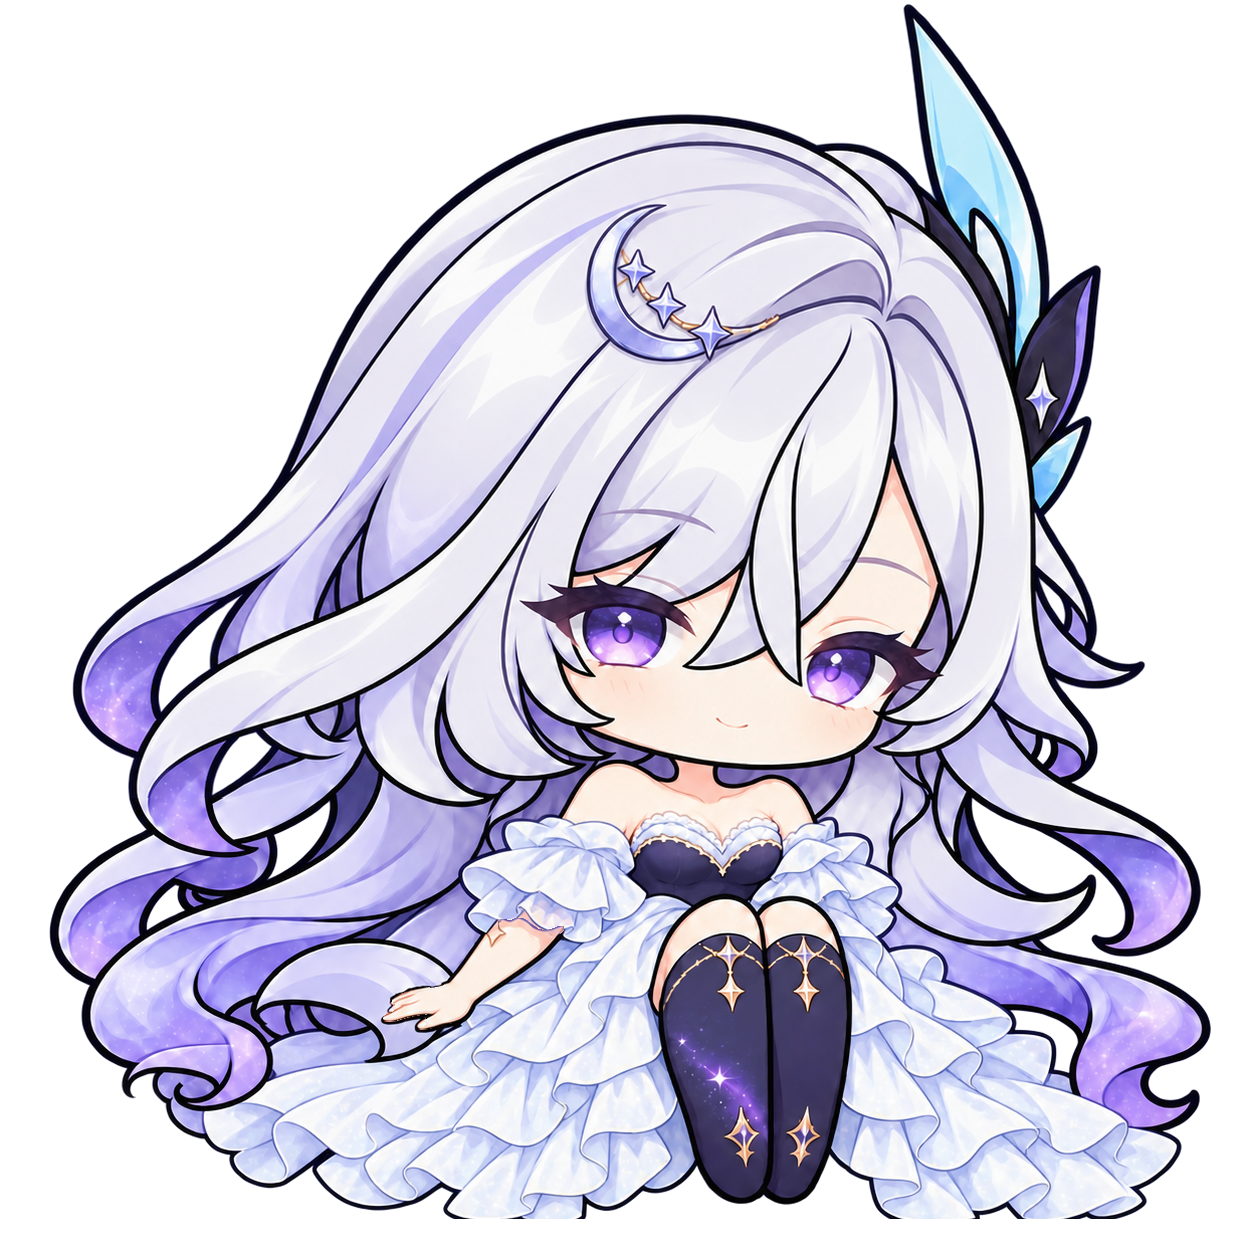
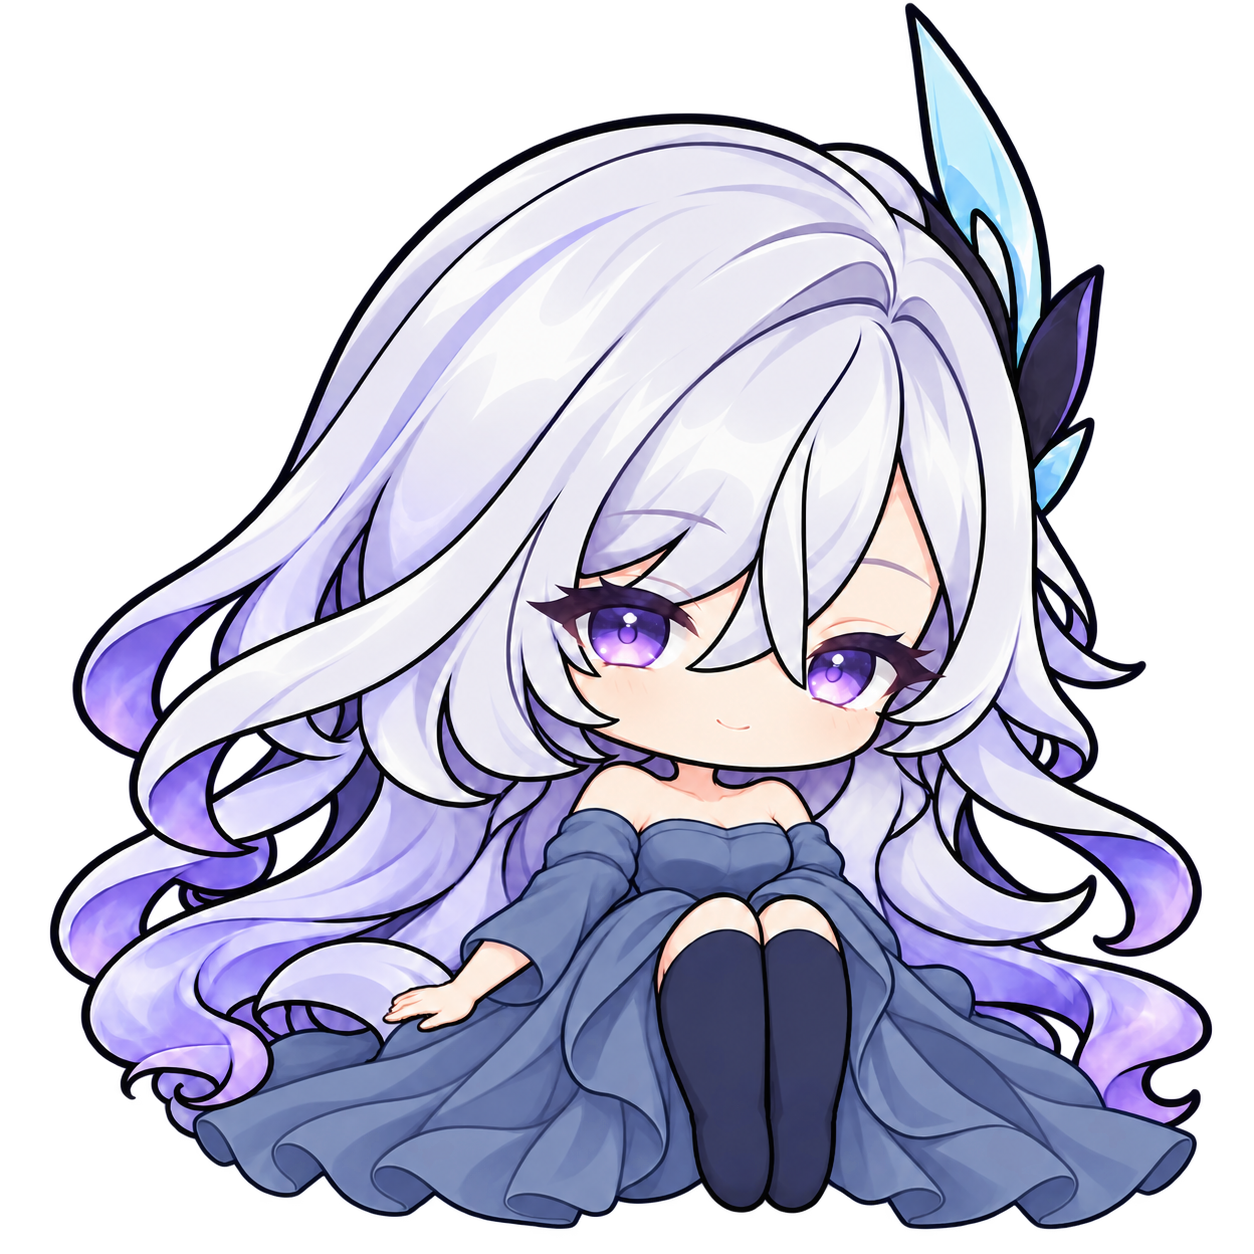
art: checkpoint partial Starsea gown rarity redraw (18 of 110)
Redraw five rarity masters and available idle frames, and add a large/80px comparison preview. Image generation quota blocked the remaining 92 sprites; record exact recovery inputs and next steps. Step 1 remains incomplete and step 2 has not started.

diff --git a/HANDOFF.md b/HANDOFF.md
@@ -1,4 +1,11 @@
 # Current Progress
+- **2026-10-12 STARSEA GOWN STEP 1 INCOMPLETE — IMAGE GENERATION QUOTA BLOCKED.** New user assignment supersedes the historical V1.5 art restriction for this isolated art task. Worktree `D:\Documents\ChatGPT\petoken-outfits-starsea-gown`, branch `codex/outfits-starsea-gown`, base `ad44b23`; Claude's checkout/branch unchanged. No code edits, step 2, merge or push.
+- Completed 18/110 requested sprite redraws: `assets/v2_5/outfits/starsea_gown/{fanxing,mingyue,haori}/idle_{1,2,3,4}.png` and `{yinhe,xinghai}/idle_{1,2,3}.png`. Added root `STARSEA_GOWN_PREVIEW.png`: five tiers in order fanxing, mingyue, haori, yinhe, xinghai, same idle_1 pose, large and 80px comparisons, no labels. Remaining 92 sprites and the five existing per-tier PREVIEW.png files retain baseline artwork. This partial mixed set is NOT a completed/accepted step 1.
+- Used built-in imagegen, one generation per sprite, original pose plus a generated tier costume reference; no external art/code reused or added dependency. Tier directions: matte gray-blue single cloth/no jewelry/no glow; pearl-silver two layers/crescent; warm ivory/champagne-gold embroidery/short cape/sun brooch; midnight-navy star patterns/platinum/long cyan-edged gauze; bright mint/rose aurora panels/large winglike stole/star crown/particles. Preserve silver-lavender hair, violet eyes, natural side feather and seated pose identity. Higher-tier master edge-clearance corrections were generated before the subsequent frames.
+- Verification: all 18 delivered sprites decode at 1254x1254 RGBA, alpha extrema 0/255, four corner pixels transparent, 18 unique SHA256 hashes, no visible top-edge clipping at alpha >32; all 18 visually inspected as a four-frame/five-tier contact sheet, preview also viewed at large/80px scale. `git diff --check` passed. Exact pixel registration, full animation/blink continuity and native wardrobe integration remain unverified; do not claim them accepted.
+- Blocking error: built-in imagegen returned HTTP 429 `usage_limit_reached` for yinhe/idle_4 and xinghai/idle_4. Error reset timestamp 1791837933 = 2026-10-12 16:45:33 America/Toronto. No silent switch to a paid API; user was asked whether to wait or explicitly authorize the API/OPENAI_API_KEY fallback. No answer received at checkpoint creation.
+- Recovery inputs/full prompts/job state: `C:\Users\fengz\.codex\visualizations\2026\10\12\01a12eca-2b82-7dc1-8cbb-263b2d6b985b\starsea-refs\generation-state.json`; same directory contains snapshots of all 22 original fanxing poses. Generated masters/source PNGs remain in the matching `.codex\generated_images` session folder. QA contact sheet `starsea-18-qa.png` is in the visualization session folder. The brief references assets/v2_0/idle_1.png, absent at this baseline; step 1 uses the existing corresponding gown poses as references.
+
 - **V1.5 CODEX COMPATIBILITY COMPLETE — WAITING_FOR_USER_ASSIGNMENT.** V1.4 accepted by human; Codex now only owns its compatibility layer on codex/v1.5-codex-compat from e529ddb. Claude independently owns shared files/provider/UI/build and merges in its separate checkout; human performs final functional/visual acceptance. No cross-review, subagent spawn, merge, push, tag or release.
 - Changed files: usage.py, codex_compat.py, tests/test_usage.py, tests/fixtures/codex/current-structure.json, tests/fixtures/codex/current-0.156.1.jsonl and AGENTS.md/HANDOFF.md/PETOKEN_CODEX_EXECUTION_STATE.md only. .autopilot and all other/shared/claude_ files untouched. No dependency, app version or build change.
 - Startup and each read inspect readonly SQLite table existence, declared affinities, consumed-field availability and SHA256/schema/user-version fingerprints; required thread values are checked too. New optional columns remain supported and do not change counters. Missing/unknown required schema, invalid values, absent/corrupt files fail closed; missing counters stay nullable, no missing-as-zero fallback. Activity ledger accepts existing INTEGER/REAL timestamps; unknown schema is not consumed.
@@ -75,6 +82,7 @@
 - Human launcher: `D:\Documents\ChatGPT\petoken-takeover-backups\2026-10-04-v1.4\package-dev\petoken\preview-v1.4.cmd`; ZIP: `D:\Documents\ChatGPT\petoken-takeover-backups\2026-10-04-v1.4\package-dev\petoken-Windows-x64.zip`; checklist: `docs/V1_4_VISUAL_QA.md`. Source checkpoint `27e3438`; technical continuity checkpoint `c40270a`; user acceptance is a documentation-only update, with package/runtime unchanged.
 
 # Decisions
+- Starsea gown (2026-10-12): user explicitly assigned this isolated asset branch; retain the five rarity costume masters, use pose-specific references, keep all original filenames and real alpha. Record a local partial checkpoint because image quota prevented completing step 1; do not present the checkpoint as delivery of all 110 sprites.
 - User retains Hub with fixed explicit visibility and independent context pin, while Stars stay task-local. Shared silver/indigo samples match approved pet hair/clothes; reuse existing Qt/native menu/poller generation fence, no new layout/theme dependency. Project spacing belongs in QTreeWidget item style (previous padding only covered QListWidget), without changing store identities or CRUD.
 - User-corrected Bongo Cat reference selects muted toy/notebook materials and clearer portrait framing. Use native Qt controls and physical-DPR thumbnail caching; separate compact pager sizing from larger tactile buttons. Original icons/artwork remain project-owned and references are recorded in DESIGN.md.
 - Human gentle-space feedback selects one shared pearl/lavender/quiet-blue default; flatten decorative container borders, preserve functional navigation and native control behavior. Complete Qt combo subcontrols and explicit selected-text roles prevent native palette leakage; Qt references in DESIGN.md, no external code copied.
@@ -88,6 +96,7 @@
 - Explicit Git allowlists. Current authorization permits GitHub main/tag/release as v1.3.0; APP_VERSION is promoted to1.3.0. Preserve local stable installation and unrelated .autopilot. Existing public repository and fast-forward history are retained.
 
 # Next Steps
+- [ ] (Starsea gown, highest priority) After built-in quota recovery or explicit API fallback authorization, redraw `yinhe/idle_4.png` and `xinghai/idle_4.png`, then every tier's `idle_blink`, `celebrate_1`, `celebrate_2`, `dragged_1`, `headpat_1`, `headpat_2`, `poked_1`, `sad_1`, `sad_blink`, `sleep_1`, `sleep_2`, `thinking_1`, `thinking_2`, `typing_1`, `typing_2`, `typing_3`, `wave_1`, `wave_2` (92 outstanding total). Blink variants must only close eyes on the corresponding new base frame. Check alignment/continuity and rarity differences, regenerate preview if masters change, then commit the COMPLETED step 1 locally and report its hash. Do not push. Step 2 requires the user's acceptance of completed step 1.
 - [x] Human accepted V1.4; Codex V1.4 work ended.
 - [ ] Await next user assignment after V1.5 Codex-only local commit/report; user forwards shared compatibility UI and historical resize-test requirements to Claude.
 - Claude owns V1.5 shared integration/build/merge; human owns acceptance. Codex must not expand file scope, cross-review, merge, push, tag or publish.
@@ -102,12 +111,14 @@
 - No required release work remains; future changes need a new task. Local stable installation is not replaced.
 
 # Open Issues
+- Starsea gown step 1 remains incomplete at 18/110 because imagegen quota is exhausted. The branch currently mixes new idle frames and old actions; runtime use would show the old costume on missing frames. Exact registration/continuity/native integration not accepted; complete and verify them before declaring step 1 done. Await user's text selection for API fallback; `accepted: true` only means the question opened.
 - Current V1.4 fixed Hub/artwork palette/project rows plus retained portrait/pager/checkbox/selection have bounded native/source and root frozen/package PASS. Fixed440x720 Hub cannot guarantee containment on smaller workareas. Human palette preference/beginner comprehension/daily usability/otherDPI and separate release approval remain pending. Synchronous locked saves take~289–311ms under the reviewed fault; local note data is plain text as documented.
 - Historical v1.3.0 candidate appearance/visual QA was accepted by the user; new V1.4 workbench human QA is pending. This does not establish exhaustive multi-monitor/fractional-DPI/tiny-workarea or physical activity detection coverage; no universal-device claim.
 - Current safe ring has up to8hits per page;24/64task universes are tested and production is not truncated to64. Whole composition requires enough workarea for body plus fixed hit footprints; impossible tiny workareas retain decoration without containment guarantee. Detail overlap/appearance remain human judgment. Synthetic poses prove rendering, not live physical keyboard/microphone/media detection.
 - Approved asset SHA2567ce0d2fbd0eb89d2f6786c9bb1d5bada1aff7d89ea2f5dd079cce8a26483e1a0 and stable v1.2.0 peeled6f63bc1c951fe1c938495bf70d3fbf3491917591 unchanged. Earlier package EXE9d8767a583fa01cba7d387fe83ffa52b37883cb67e2a0b6960302e22f0083149 and ZIPb2d0b0fcb7ac6db62471030738ad649ad0936d07103a94c33dc3af0f2776a259 byte hashes preserved.
 
 # Project Conventions
+- Starsea gown art: 1254x1254 RGBA transparent sprites, existing 22 frame names per quality, no text in artwork, five rarity directories fanxing/mingyue/haori/yinhe/xinghai; art-only isolated branch and local commits. Never fabricate missing action frames or begin step 2 before user confirmation.
 - Python/PySide6: Codex Hub overview, stable task-local Star, one manager-owned detail; Unknown/N/A/zero/Partial distinct. Preserve provider/scope/generation truth and privacy boundaries.
 - HANDOFF is concise continuity; PETOKEN_CODEX_EXECUTION_STATE.md retains permanent ledger/waves and historical evidence. Reports/logs/captures/package stay external under takeover backups.
 - Owned captures prove paint/content; actual HWND order/focus is measured separately. Never use ordinary live --smoke for isolated QA; use --preview-workbench for current V1.4 or --preview-v1-3/--preview-v1-4 for the retained ring preview. Human visual approval is separate from technical acceptance.
